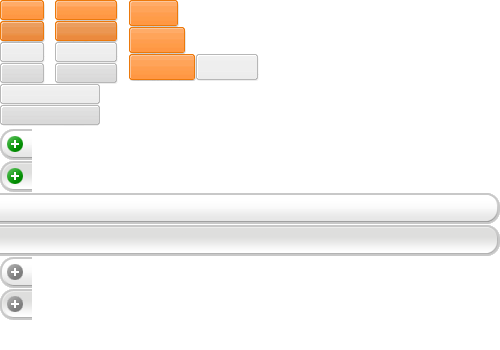
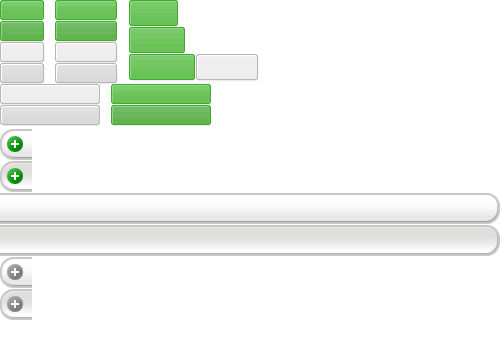
调整部分UI

Changed region(s): [[0.0, 0.0, 0.42, 0.3714]]

diff --git a/themes/default/photos/index.htm b/themes/default/photos/index.htm
@@ -195,13 +195,13 @@
                     </div>
                     <!--{/if}-->
                     <div class="album_info">
-                        <h2 class="title_c"><div class="inline_edit" title="点击可编辑" onclick="Madmin.inline_edit(this,'{link ctl=albums act=modify_name id=$album_info['id']}')">{$album_info['name']} <span class="i_editinfo sprite"></span></div></h2>
+                        <h2 class="title_c"><div class="inline_edit" title="点击可编辑" onclick="Madmin.inline_edit(this,'{link ctl=albums act=modify_name_inline id=$album_info['id']}')">{$album_info['name']} <span class="i_editinfo sprite"></span></div></h2>
                         <div class="info_body">
-                            <div class="inline_edit" title="点击可编辑" onclick="Madmin.inline_edit(this,'{link ctl=albums act=editdesc id=$album_info['id']}')"><!--{if $album_info['desc']}-->{$album_info['desc']}<!--{else}-->还没有描述，为相册添加描述吧！<!--{/if}-->
+                            <div class="inline_edit" title="点击可编辑" onclick="Madmin.inline_edit(this,'{link ctl=albums act=modify_desc_inline id=$album_info['id']}')"><!--{if $album_info['desc']}-->{$album_info['desc']}<!--{else}-->还没有描述，为相册添加描述吧！<!--{/if}-->
                                 <span class="i_editinfo sprite"></span></div>
                         </div>
                         <div class="tags mb10">
-                            <div class="inline_edit" title="点击可编辑" onclick="Madmin.inline_edit(this,'{link ctl=albums act=modify_tags id=$album_info['id']}')">
+                            <div class="inline_edit" title="点击可编辑" onclick="Madmin.inline_edit(this,'{link ctl=albums act=modify_tags_inline id=$album_info['id']}')">
                                 标签： 
                                 {$album_info['tags']}
                                 <span class="i_editinfo sprite"></span></div>
@@ -209,7 +209,7 @@
                     </div>
                     <div class="priv">
                         <span class="f_left">访问权限：  <span class="i_greenicn sprite"></span> {echo enum_priv_type($album_info['priv_type'])}</span>
-                        <span class="f_right"><a href="javascript:void(0)" onclick="Mui.box.show('{link ctl=albums act=editpriv id=$album_info['id']}');">编辑</a></span>
+                        <span class="f_right"><a href="javascript:void(0)" onclick="Mui.box.show('{link ctl=albums act=modify_priv id=$album_info['id']}');">编辑</a></span>
                         <div class="clear"></div>
                     </div>
                     <div class="mb10 tinfo">

diff --git a/themes/default/albums/modify_priv.htm b/themes/default/albums/modify_priv.htm
@@ -3,7 +3,7 @@
     修改相册权限 - {$info['name']}
 </div>
 <div class="box_container">
-    <form id="albums_priv" action="{link ctl=albums act=savepriv id=$info['id']}" method="post" onsubmit="return false;">
+    <form id="albums_priv" action="{link ctl=albums act=save_priv id=$info['id']}" method="post" onsubmit="return false;">
         <div class="field">
             <div class="label">权限设置</div>
             <div class="ipts"><label><input type="radio" name="priv_type" value="0" onclick="$('#filed_password').hide();$('#filed_question').hide();" {if $info['priv_type']=='0'} checked="checked"{/if} /> 公开</label> <label><input type="radio" name="priv_type" value="1" onclick="$('#filed_password').show();$('#filed_question').hide();" {if $info['priv_type']=='1'} checked="checked"{/if} /> 密码访问</label> <label><input type="radio" name="priv_type" value="2" onclick="$('#filed_password').hide();$('#filed_question').show();" {if $info['priv_type']=='2'} checked="checked"{/if} /> 问题访问</label> <label><input type="radio" name="priv_type" value="3" onclick="$('#filed_password').hide();$('#filed_question').hide();" {if $info['priv_type']=='3'} checked="checked"{/if} /> 私人</label> </div>
@@ -36,7 +36,7 @@
         </div>
         <div class="field">
             <div class="label"> &nbsp;</div>
-            <div class="ipts"><input type="submit" value="保存" class="graybtn f_left" name="submit" onclick="Mui.form.sendAuto('albums_priv')"> <input type="button" value="取消" class="ml10 graybtn f_left" name="cancel" onclick="Mui.box.close()"></div>
+            <div class="ipts"><input type="submit" value="保存" class="ylbtn f_left" name="submit" onclick="Mui.form.sendAuto('albums_priv')"> <input type="button" value="取消" class="ml10 graybtn f_left" name="cancel" onclick="Mui.box.close()"></div>
             <div class="clear"></div>
         </div>
     </form>

diff --git a/themes/default/upload/index.htm b/themes/default/upload/index.htm
@@ -47,7 +47,7 @@ $(function() {
             if (uploader.files.length > 0) {
                 uploader.start();
             } else
-                alert('至少选择一个文件上传.');
+                Mui.box.alert('提示','至少选择一个文件上传.','确定');
         }
     });
 });
@@ -94,7 +94,7 @@ function reload_albums_options(je){
                                 <div id="muilti_uploader">
                                     Loading....
                                 </div>
-                                <div align="center"><input type="button" name="uploadbtn" class="graybtn" value="立即上传" /></div>
+                                <div align="center"><input type="button" name="uploadbtn" class="ylbtn" value="立即上传" /></div>
                             </form>
                         </div>
                     </div>

diff --git a/statics/img/main.css b/statics/img/main.css
@@ -122,6 +122,19 @@ textarea.inputstyle{
     -webkit-box-shadow:0 0 6px rgba(255, 136, 0, 0.5);
     box-shadow:0 0 6px rgba(255, 136, 0, 0.5);
 }
+.ylbtn{
+    cursor:pointer;
+    color:#fff;
+    width:100px;
+    height:21px;
+    line-height:21px;
+    padding-bottom:2px;
+    border:none;
+    background:url("btn.png") -111px -84px;
+}
+.ylbtn:hover{
+    background-position:-111px -105px;
+}
 .ylbtn1{
     cursor:pointer;
     color:#fff;
@@ -145,6 +158,9 @@ textarea.inputstyle{
     padding-bottom:2px;
     border:none;
     background:url("btn.png") -55px -42px;
+}
+.graysmlbtn:hover{
+    background-position:-55px -63px;
 }
 .graybtn{
     cursor:pointer;
@@ -177,7 +193,7 @@ textarea.inputstyle{
 }
 
 @media screen and (-webkit-min-device-pixel-ratio:0){
-    .ylbtn1,.graybtn{
+    .ylbtn1,.graybtn,.graysmlbtn{
         line-height:17px;
     }
 }

diff --git a/themes/default/albums/confirm_delete_batch.htm b/themes/default/albums/confirm_delete_batch.htm
@@ -5,6 +5,6 @@
 <div class="box_container">
     <div>确定要删除这些相册么？删除后的相册可以在“回收站”恢复！</div>
     <div class="b_btns">
-        <input type="submit" value="删除" class="graybtn f_left" name="submit" onclick="Madmin.checked_action('.selitem','{link ctl=albums act=delete_batch}');"> <input type="button" value="取消" class="ml10 graybtn f_left" name="cancel" onclick="Mui.box.close()">
+        <input type="submit" value="删除" class="ylbtn f_left" name="submit" onclick="Madmin.checked_action('.selitem','{link ctl=albums act=delete_batch}');"> <input type="button" value="取消" class="ml10 graybtn f_left" name="cancel" onclick="Mui.box.close()">
     </div>
 </div>

diff --git a/themes/default/photos/confirm_delete_batch.htm b/themes/default/photos/confirm_delete_batch.htm
@@ -5,6 +5,6 @@
 <div class="box_container">
     <div>确定要删除这些图片么？删除后的图片可以在“回收站”恢复！</div>
     <div class="b_btns">
-        <input type="submit" value="删除" class="graybtn f_left" name="submit" onclick="Madmin.checked_action('.selitem','{link ctl=photos act=delete_batch}');"> <input type="button" value="取消" class="ml10 graybtn f_left" name="cancel" onclick="Mui.box.close()">
+        <input type="submit" value="删除" class="ylbtn f_left" name="submit" onclick="Madmin.checked_action('.selitem','{link ctl=photos act=delete_batch}');"> <input type="button" value="取消" class="ml10 graybtn f_left" name="cancel" onclick="Mui.box.close()">
     </div>
 </div>

diff --git a/themes/default/albums/confirm_delete.htm b/themes/default/albums/confirm_delete.htm
@@ -5,6 +5,6 @@
 <div class="box_container">
     <div>确定要删除相册 “{$album_name}” 么？删除后的相册及相册内图片可以在“回收站”恢复！</div>
     <div class="b_btns">
-        <input type="submit" value="删除" class="graybtn f_left" name="submit" onclick="Mui.box.show('{link ctl=albums act=delete id=$id}')"> <input type="button" value="取消" class="ml10 graybtn f_left" name="cancel" onclick="Mui.box.close()">
+        <input type="submit" value="删除" class="ylbtn f_left" name="submit" onclick="Mui.box.show('{link ctl=albums act=delete id=$id}')"> <input type="button" value="取消" class="ml10 graybtn f_left" name="cancel" onclick="Mui.box.close()">
     </div>
 </div>

diff --git a/themes/default/albums/create.htm b/themes/default/albums/create.htm
@@ -51,7 +51,7 @@
         </div>
         <div class="field">
             <div class="label"> &nbsp;</div>
-            <div class="ipts"><input type="submit" value="创建相册" class="graybtn f_left" name="submit" onclick="Mui.form.sendAuto('albums_create')"> <input type="button" value="取消" class="ml10 graybtn f_left" name="cancel" onclick="Mui.box.close()"></div>
+            <div class="ipts"><input type="submit" value="创建相册" class="ylbtn f_left" name="submit" onclick="Mui.form.sendAuto('albums_create')"> <input type="button" value="取消" class="ml10 graybtn f_left" name="cancel" onclick="Mui.box.close()"></div>
             <div class="clear"></div>
         </div>
     </form>

diff --git a/themes/default/photos/confirm_delete.htm b/themes/default/photos/confirm_delete.htm
@@ -5,6 +5,6 @@
 <div class="box_container">
     <div>确定要删除图片 “{$picture_name}” 么？删除后的图片可以在“回收站”恢复！</div>
     <div class="b_btns">
-        <input type="submit" value="删除" class="graybtn f_left" name="submit" onclick="Mui.box.show('{link ctl=photos act=delete id=$id}')"> <input type="button" value="取消" class="ml10 graybtn f_left" name="cancel" onclick="Mui.box.close()">
+        <input type="submit" value="删除" class="ylbtn f_left" name="submit" onclick="Mui.box.show('{link ctl=photos act=delete id=$id}')"> <input type="button" value="取消" class="ml10 graybtn f_left" name="cancel" onclick="Mui.box.close()">
     </div>
 </div>

diff --git a/themes/default/albums/modify.htm b/themes/default/albums/modify.htm
@@ -51,7 +51,7 @@
         </div>
         <div class="field">
             <div class="label"> &nbsp;</div>
-            <div class="ipts"><input type="submit" value="保存" class="graybtn f_left" name="submit" onclick="Mui.form.sendAuto('albums_modify')"> <input type="button" value="取消" class="ml10 graybtn f_left" name="cancel" onclick="Mui.box.close()"></div>
+            <div class="ipts"><input type="submit" value="保存" class="ylbtn f_left" name="submit" onclick="Mui.form.sendAuto('albums_modify')"> <input type="button" value="取消" class="ml10 graybtn f_left" name="cancel" onclick="Mui.box.close()"></div>
             <div class="clear"></div>
         </div>
     </form>

diff --git a/themes/default/photos/modify.htm b/themes/default/photos/modify.htm
@@ -21,7 +21,7 @@
         </div>
         <div class="field">
             <div class="label"> &nbsp;</div>
-            <div class="ipts"><input type="submit" value="保存" class="graybtn f_left" name="submit" onclick="Mui.form.sendAuto('photo_modify')"> <input type="button" value="取消" class="ml10 graybtn f_left" name="cancel" onclick="Mui.box.close()"></div>
+            <div class="ipts"><input type="submit" value="保存" class="ylbtn f_left" name="submit" onclick="Mui.form.sendAuto('photo_modify')"> <input type="button" value="取消" class="ml10 graybtn f_left" name="cancel" onclick="Mui.box.close()"></div>
             <div class="clear"></div>
         </div>
     </form>

diff --git a/statics/js/common.js b/statics/js/common.js
@@ -117,6 +117,13 @@ Mui.box = {
             $('iframe').remove('.bg_iframe');
         }
         this.callback = null;
+    },
+    alert: function(title,content,btn_name){
+        Mui.box.setData('<div class="box_title titbg">'+
+            '<div class="closer sprite i_close" onclick="Mui.box.close()"></div>'+
+            title+'</div><div class="box_container">'+'<div>'+content+'</div>'+
+            '<div class="b_btns"><input type="button" value="'+btn_name+'" class="ml10 ylbtn f_left" name="cancel" onclick="Mui.box.close()"></div></div>');
+        $('#meiu_float_box').jqDrag('.box_title');
     }
 };
 
